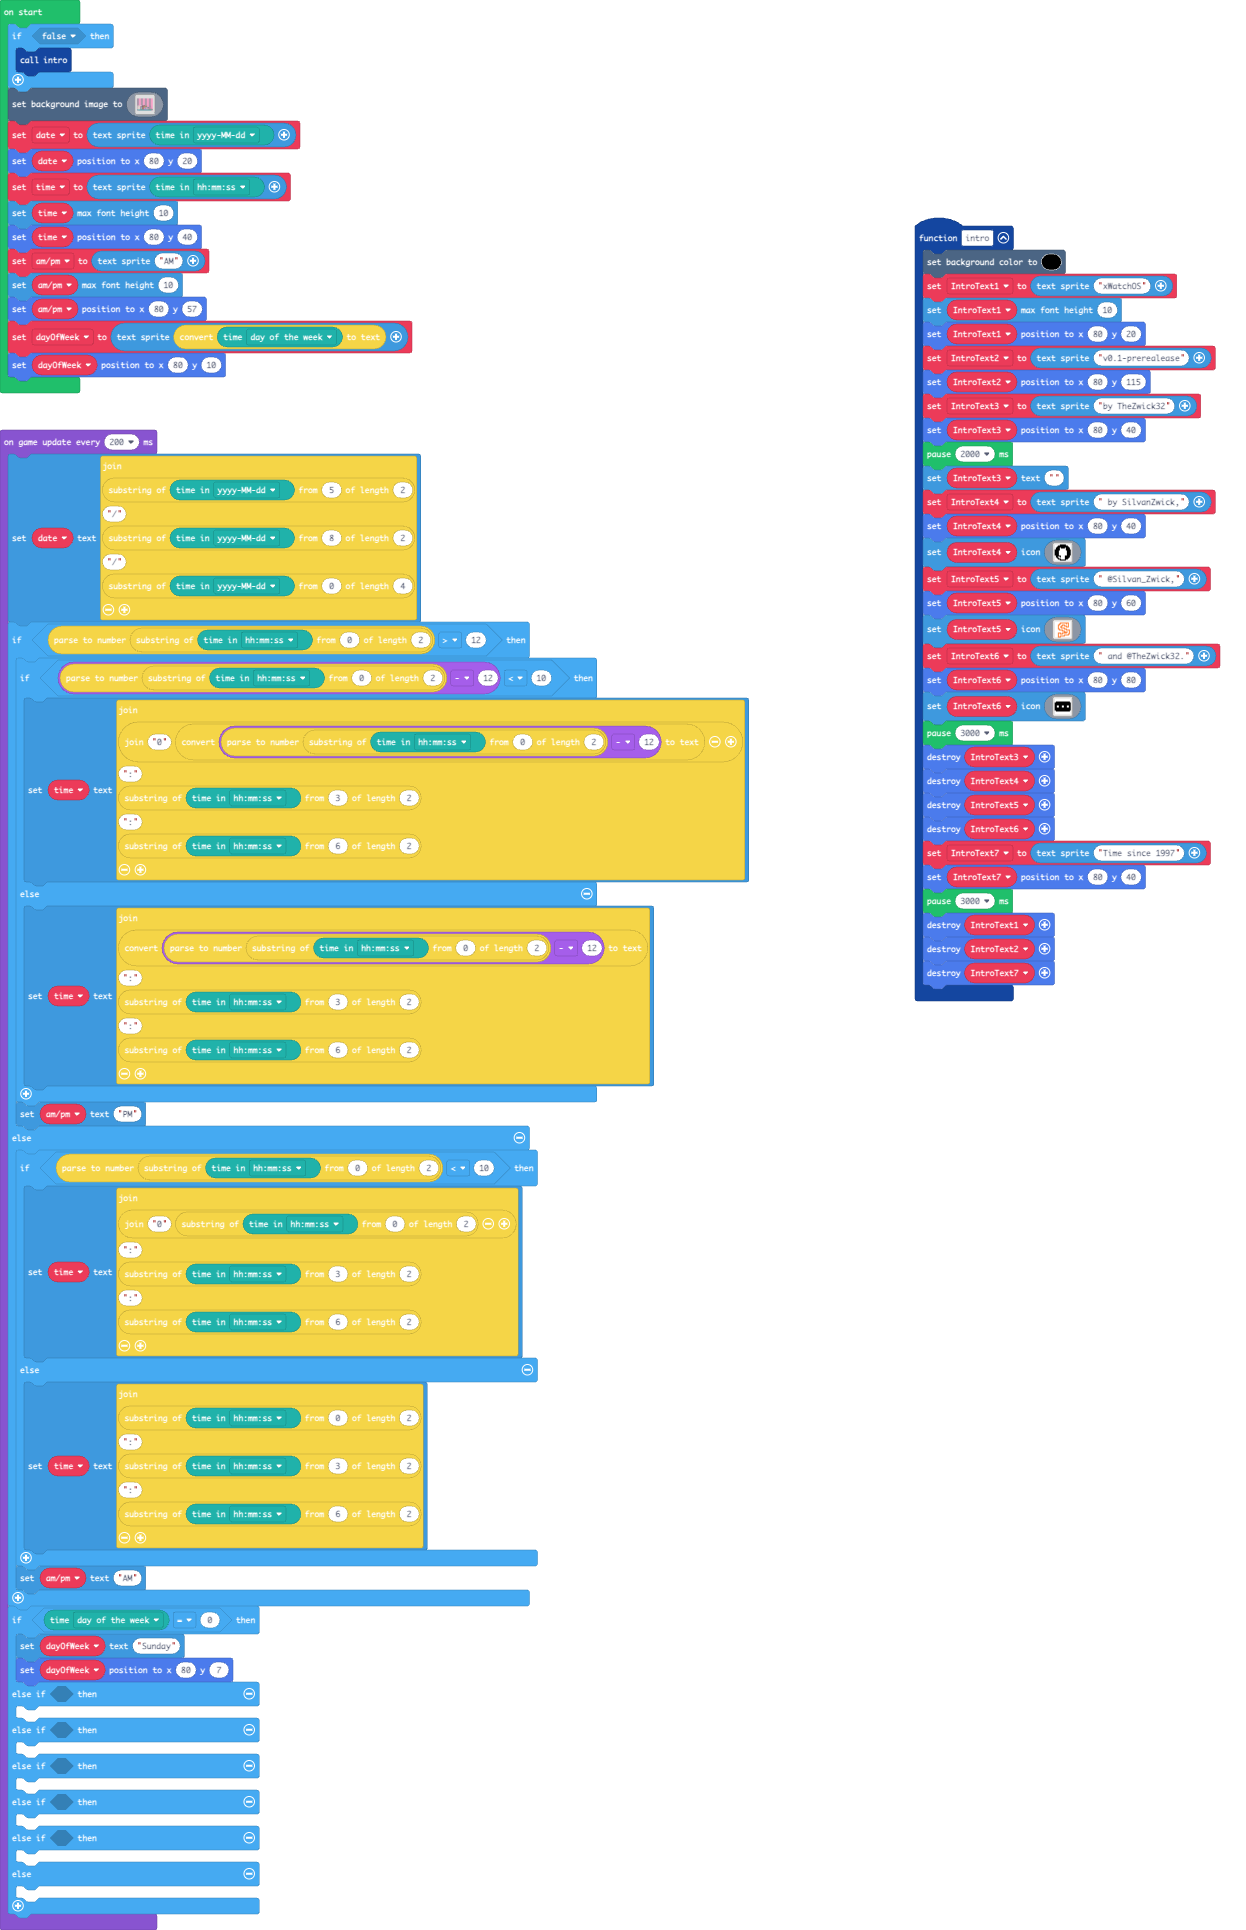
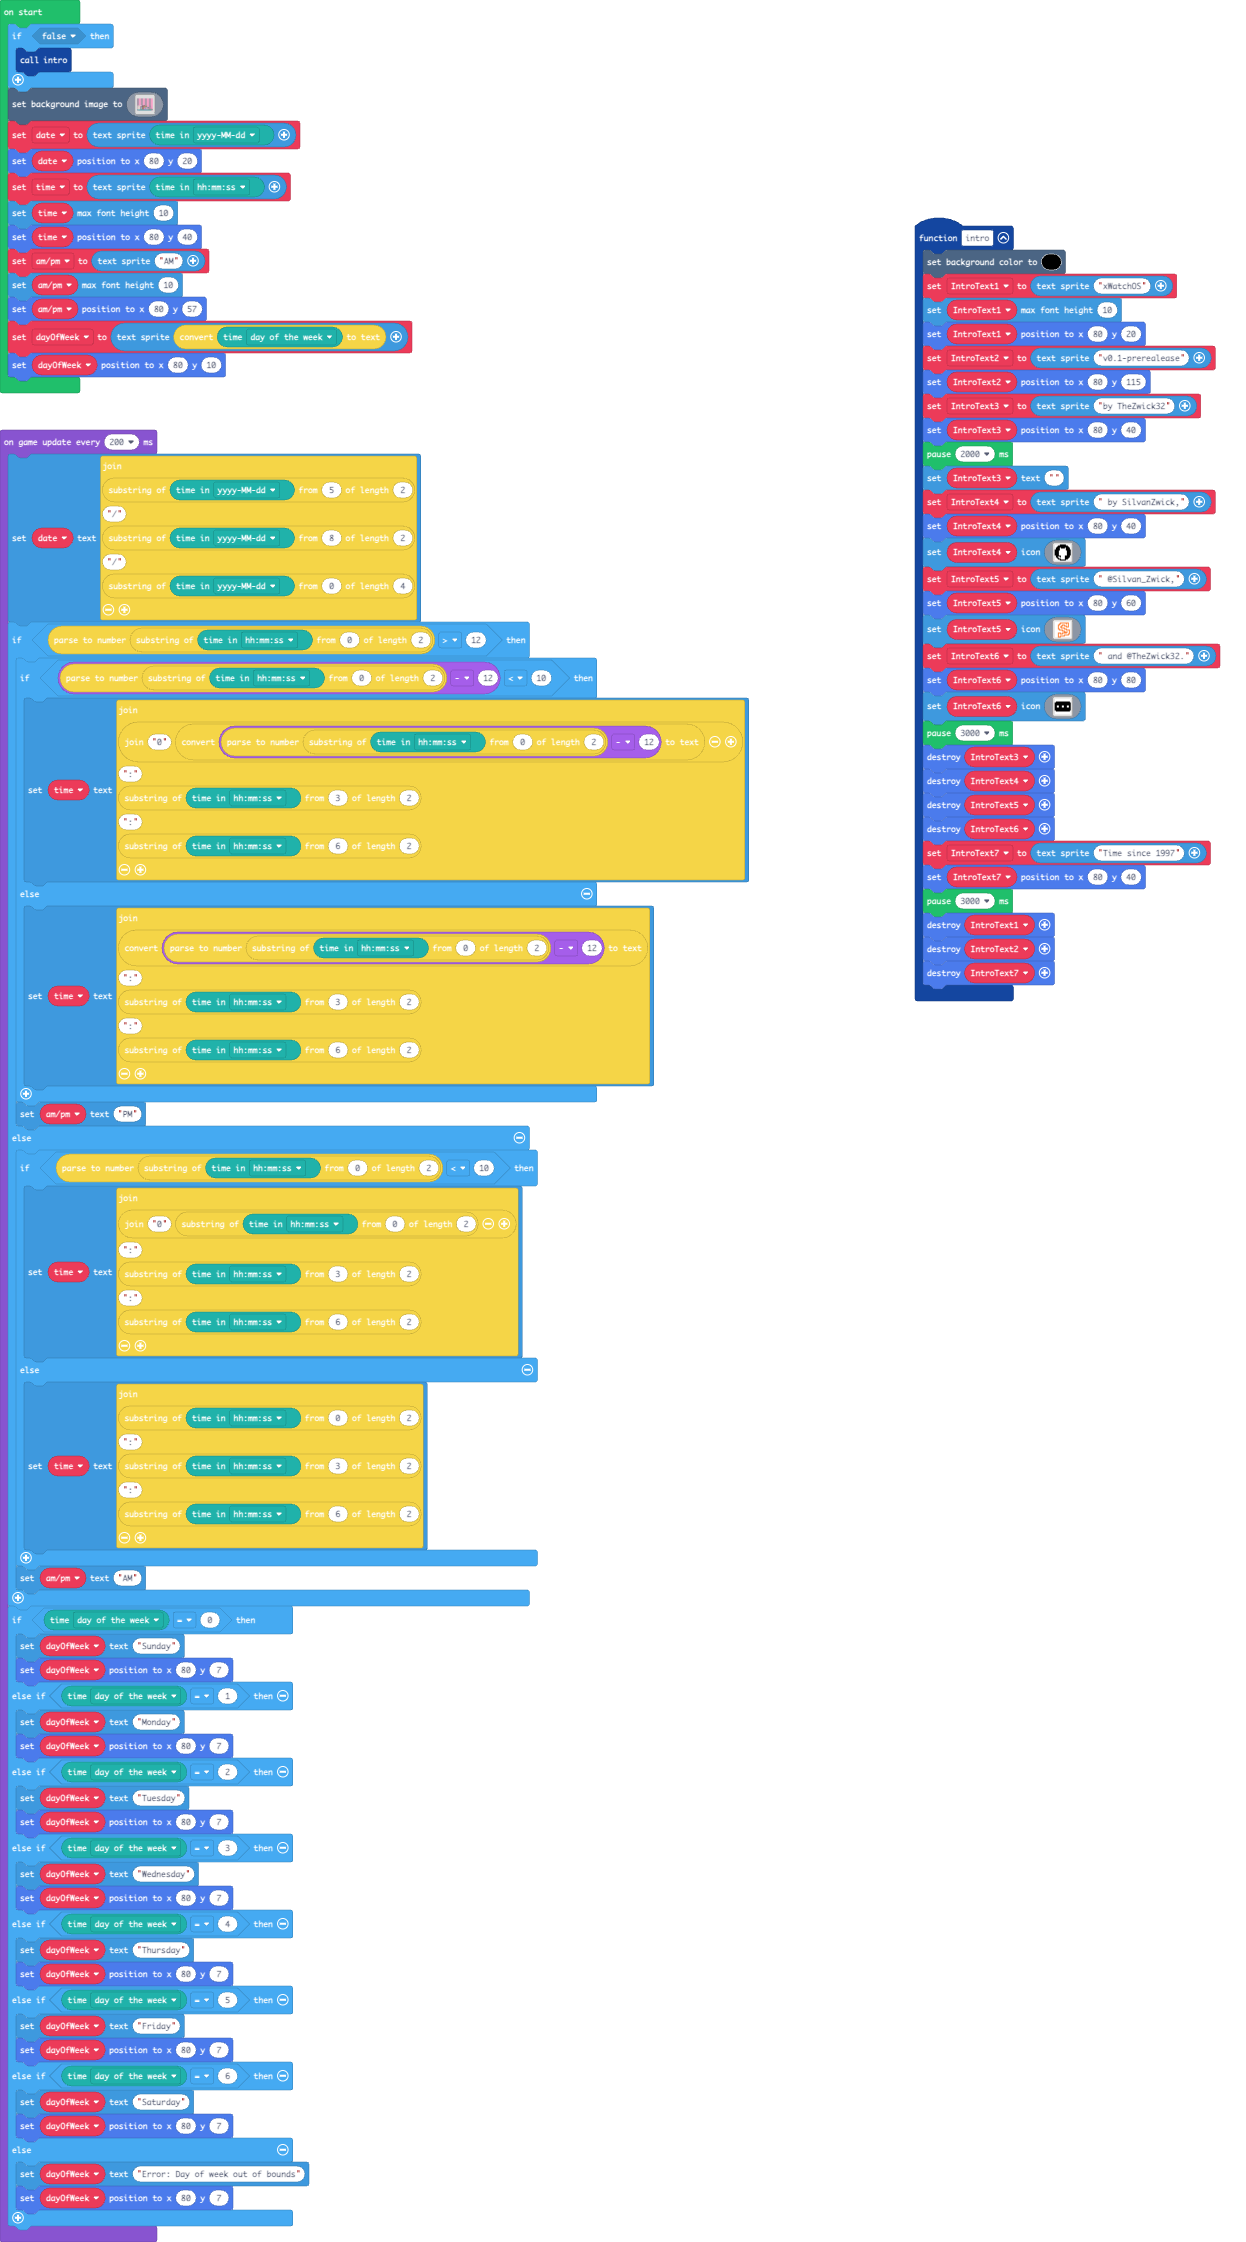
Implemented working day of the week.

Changed region(s): [[0.0, 0.0, 0.61, 0.9948], [0.7319, 0.0933, 0.9759, 0.5285]]

diff --git a/main.ts b/main.ts
@@ -71,17 +71,26 @@ game.onUpdateInterval(200, function () {
     if (rtcModules.readTime(TimeType.DAY) == 0) {
         dayOfWeek.setText("Sunday")
         dayOfWeek.setPosition(80, 7)
-    } else if (false) {
-    	
-    } else if (false) {
-    	
-    } else if (false) {
-    	
-    } else if (false) {
-    	
-    } else if (false) {
-    	
+    } else if (rtcModules.readTime(TimeType.DAY) == 1) {
+        dayOfWeek.setText("Monday")
+        dayOfWeek.setPosition(80, 7)
+    } else if (rtcModules.readTime(TimeType.DAY) == 2) {
+        dayOfWeek.setText("Tuesday")
+        dayOfWeek.setPosition(80, 7)
+    } else if (rtcModules.readTime(TimeType.DAY) == 3) {
+        dayOfWeek.setText("Wednesday")
+        dayOfWeek.setPosition(80, 7)
+    } else if (rtcModules.readTime(TimeType.DAY) == 4) {
+        dayOfWeek.setText("Thursday")
+        dayOfWeek.setPosition(80, 7)
+    } else if (rtcModules.readTime(TimeType.DAY) == 5) {
+        dayOfWeek.setText("Friday")
+        dayOfWeek.setPosition(80, 7)
+    } else if (rtcModules.readTime(TimeType.DAY) == 6) {
+        dayOfWeek.setText("Saturday")
+        dayOfWeek.setPosition(80, 7)
     } else {
-    	
+        dayOfWeek.setText("Error: Day of week out of bounds")
+        dayOfWeek.setPosition(80, 7)
     }
 })
